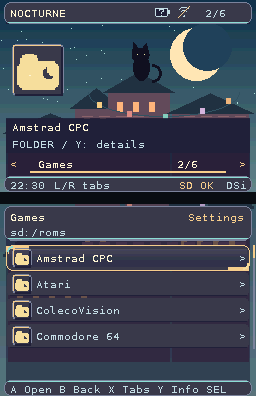
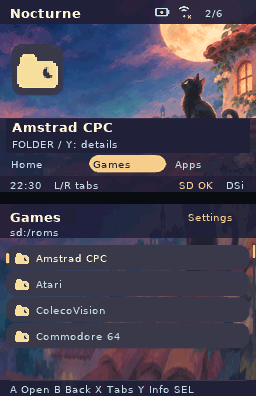
Refresh artistic theme previews and authoring guidance

diff --git a/docs/guides/THEME_PACKAGES.md b/docs/guides/THEME_PACKAGES.md
@@ -57,7 +57,7 @@ both directions. Bright shades suit dark backgrounds; deeper versions with light
 selection text suit light backgrounds. The original first three saved IDs stay
 unchanged. Expanded selections persist in state and named appearance snapshots. The value shows Theme until an override is selected. Reapplying a theme
 restores its accent. Other browser preferences remain independent of the package.
-Copper and Slate demonstrate a packed face and the built-in face respectively;
+Copper and Slate demonstrate serif and sans proportional faces respectively;
 Folio, Nocturne and Tide add light/dark layouts, wallpapers and original audio. All screens consume the resolved palette, including settings,
 file pickers and theme preview. PNG covers retain their existing neutral alpha
 matte; they are content artwork rather than theme backgrounds.
@@ -69,36 +69,41 @@ A, or cancel with B. The packages are ready to copy; no build step is needed.
 
 | Theme | Illustrated identity | Browser character |
 | --- | --- | --- |
-| Copper | Oxidized teal workshop, brass gears, red pressure wheel and ivory gauge. | Enamel faces, brass fasteners and warm selection edges. |
-| Slate | Navy city rain, coral neon and amber reflections. | Graphite panels, cyan symbols and salmon highlights. |
-| Folio | Pressed flowers, green leaves, blue tape and vermilion berries. | Cream paper, terracotta selection and colored notebook inks. |
-| Nocturne | Blue dusk, warm roofs, a butter-yellow moon and colored lanterns. | Smoky violet surfaces, gold selection and sea-glass symbols. |
-| Tide | Peach sky, blue sea, red-striped lighthouse and coral sail. | Cream charts, navy text and red pencil marks. |
-| Phosphor | Navy instrument enclosure, green radar, cyan controls and amber indicators. | Open brackets and compact instrument rows. |
-| Eclipse | Copper planet, turquoise rings and pink stellar points. | Plum cards, apricot selection and complementary category inks. |
-| Prism | Honey, rose and teal arcade cabinets over a checker floor. | Cream panels, cranberry selection and colored corner tabs. |
-| Ember | Pine-green forest, rose dusk, canvas tent and orange fire. | Olive surfaces, gold edges and pale teal equipment icons. |
-| Glacier | Violet-and-mint aurora, blue ice and safety-orange equipment. | Navy panels, peach highlights and colored instrument symbols. |
-| Garnet | Gold tracery around rose, jade and cobalt stained glass. | Burgundy panels, brass selection and cool secondary inks. |
+| Copper | Patinated copper, celadon paint, an ivory gauge and red enamel. | Warm serif headings and broad brushed-metal surfaces. |
+| Slate | Cinematic night rain, amber windows and coral reflections. | Rounded charcoal surfaces and clean proportional sans text. |
+| Folio | Tactile pressed flowers and torn botanical paper collage. | Irregular paper edges, serif type and terracotta marks. |
+| Nocturne | A painted cat, terracotta rooftops and a luminous dusk sky. | Soft violet shapes and warm gold accents. |
+| Tide | Gouache sea cliffs, peach sky and an ivory lighthouse. | Pale coastal surfaces and smooth navy typography. |
+| Phosphor | An expedition map, radar glass, ivory casing and indicator lamps. | Bold chamfered controls and compact sans text. |
+| Eclipse | A painted terracotta planet above a surreal violet landscape. | Rounded plum cards and apricot accents. |
+| Prism | Bold pink, cream and yellow cut-color shapes. | Bubble forms, lime selection and a centered artwork stage. |
+| Ember | An illustrated autumn campsite beneath a rose sky. | Canvas-colored labels, warm serif type and rust highlights. |
+| Glacier | Layered paper mountains, mint sky and an orange expedition hut. | Airy ice-colored surfaces and bold navy headings. |
+| Garnet | Art-nouveau jewel glass and aged brass in a quiet interior. | Soft aubergine shapes, serif headings and gold accents. |
 
 All eleven bundled packs require version-2 theme support. They include original
 native-resolution illustrations, independent screen shading and complementary
 file/tab colors. Prepared `assets.gfx` banks avoid individual sprite PNG reads;
-the editable PNG sources remain alongside them. Opaque rows protect text, while
-only the compact inspector Panel retains partial coverage (256 bytes of coverage
-per loaded pack). Repeated grid/shelf cards stay opaque. Screen shading is prepared during loading. These packs add no
+the editable PNG sources remain alongside them. Opaque row/card centers protect
+text; four-level coverage smooths their edges. Body faces use proportional
+DSFONT03 text, with separate 16-pixel heading faces. Supersampling, physical grain
+and palette reduction happen on the authoring PC. Native drawing uses finished
+32-pixel sprites and 256×192 backgrounds, with no live texture synthesis or blur.
+Separate reading surfaces protect the header/footer controls and dialog text
+while leaving the browser illustration visible. They are precomposited during
+loading and require no additional retained framebuffer. These packs add no
 animation scripts or per-frame file reads.
 
 Screen compositions are chosen to suit their character:
 
-- **Scene — Copper, Nocturne, Tide and Garnet:** illustration above a compact
+- **Scene — Copper, Folio, Nocturne, Tide, Glacier and Garnet:** illustration above a compact
   inspector and horizontal tabs. Tide uses a larger thumbnail; Garnet a portrait
   framed thumbnail beside its rose window.
-- **Poster — Eclipse, Prism and Ember:** large artwork beside title details,
+- **Poster — Eclipse and Ember:** large artwork beside title details,
   with horizontal tabs below.
-- **Journal — Folio and Slate:** compact portrait artwork beside a heading and
+- **Journal — Slate:** compact portrait artwork beside a heading and
   item facts, leaving the scenery visible around them.
-- **Gallery — Glacier:** navigation above artwork and item facts.
+- **Spotlight — Prism:** centered artwork with broad color shapes and navigation below.
 - **Right sidebar — Phosphor:** artwork and information on the left,
   with a persistent tab list on the right.
 
@@ -106,9 +111,12 @@ Icons, cover art, labels and status remain live; none are baked into the
 background. Ordinary dialogs keep a shaded reading surface. Personal view,
 audio and Reduced motion preferences still apply.
 
-The illustrations are CC0-1.0 and reproducible with
-`.venv/bin/python tools/make_theme_scenes.py`. No other launcher's theme artwork
-is redistributed. Existing music/font notices remain in each package.
+The agent-assisted illustration masters and their CC0-1.0 attribution are in
+[`assets/theme-art`](../../assets/theme-art/CREDITS.md). Native backgrounds and
+reading surfaces are reproducible from those masters with
+`.venv/bin/python tools/make_theme_scenes.py`; Prism's vector composition is
+authored directly in that tool. No other launcher's theme artwork is
+redistributed. Existing music/font notices remain in each package.
 
 [View all eleven rendered themes](../images/theme-personalities.png).
 Regenerate with `.venv/bin/python tools/make_screenshots.py --theme-variants personality`.
@@ -581,9 +589,10 @@ PNG colors are fixed and personal accent changes do not recolor them. The loader
 palette checks cannot certify contrast inside arbitrary artwork; inspect both
 screens, small/large icons, every view and settings before sharing a pack.
 
-All eleven supplied packs include components. Phosphor uses open selection
-brackets, Eclipse uses rounded panels, Prism uses folded corners, and Copper
-uses beveled edges. Regenerate them with:
+All eleven supplied packs include components. Folio uses torn-paper silhouettes,
+Slate and Eclipse use broad rounded surfaces, Prism uses bubble forms, and
+Phosphor uses bold chamfered shapes. The sprites are supersampled on the PC;
+the DSi loads their finished pixels. Regenerate them with:
 
 ```sh
 .venv/bin/python tools/make_theme_components.py
